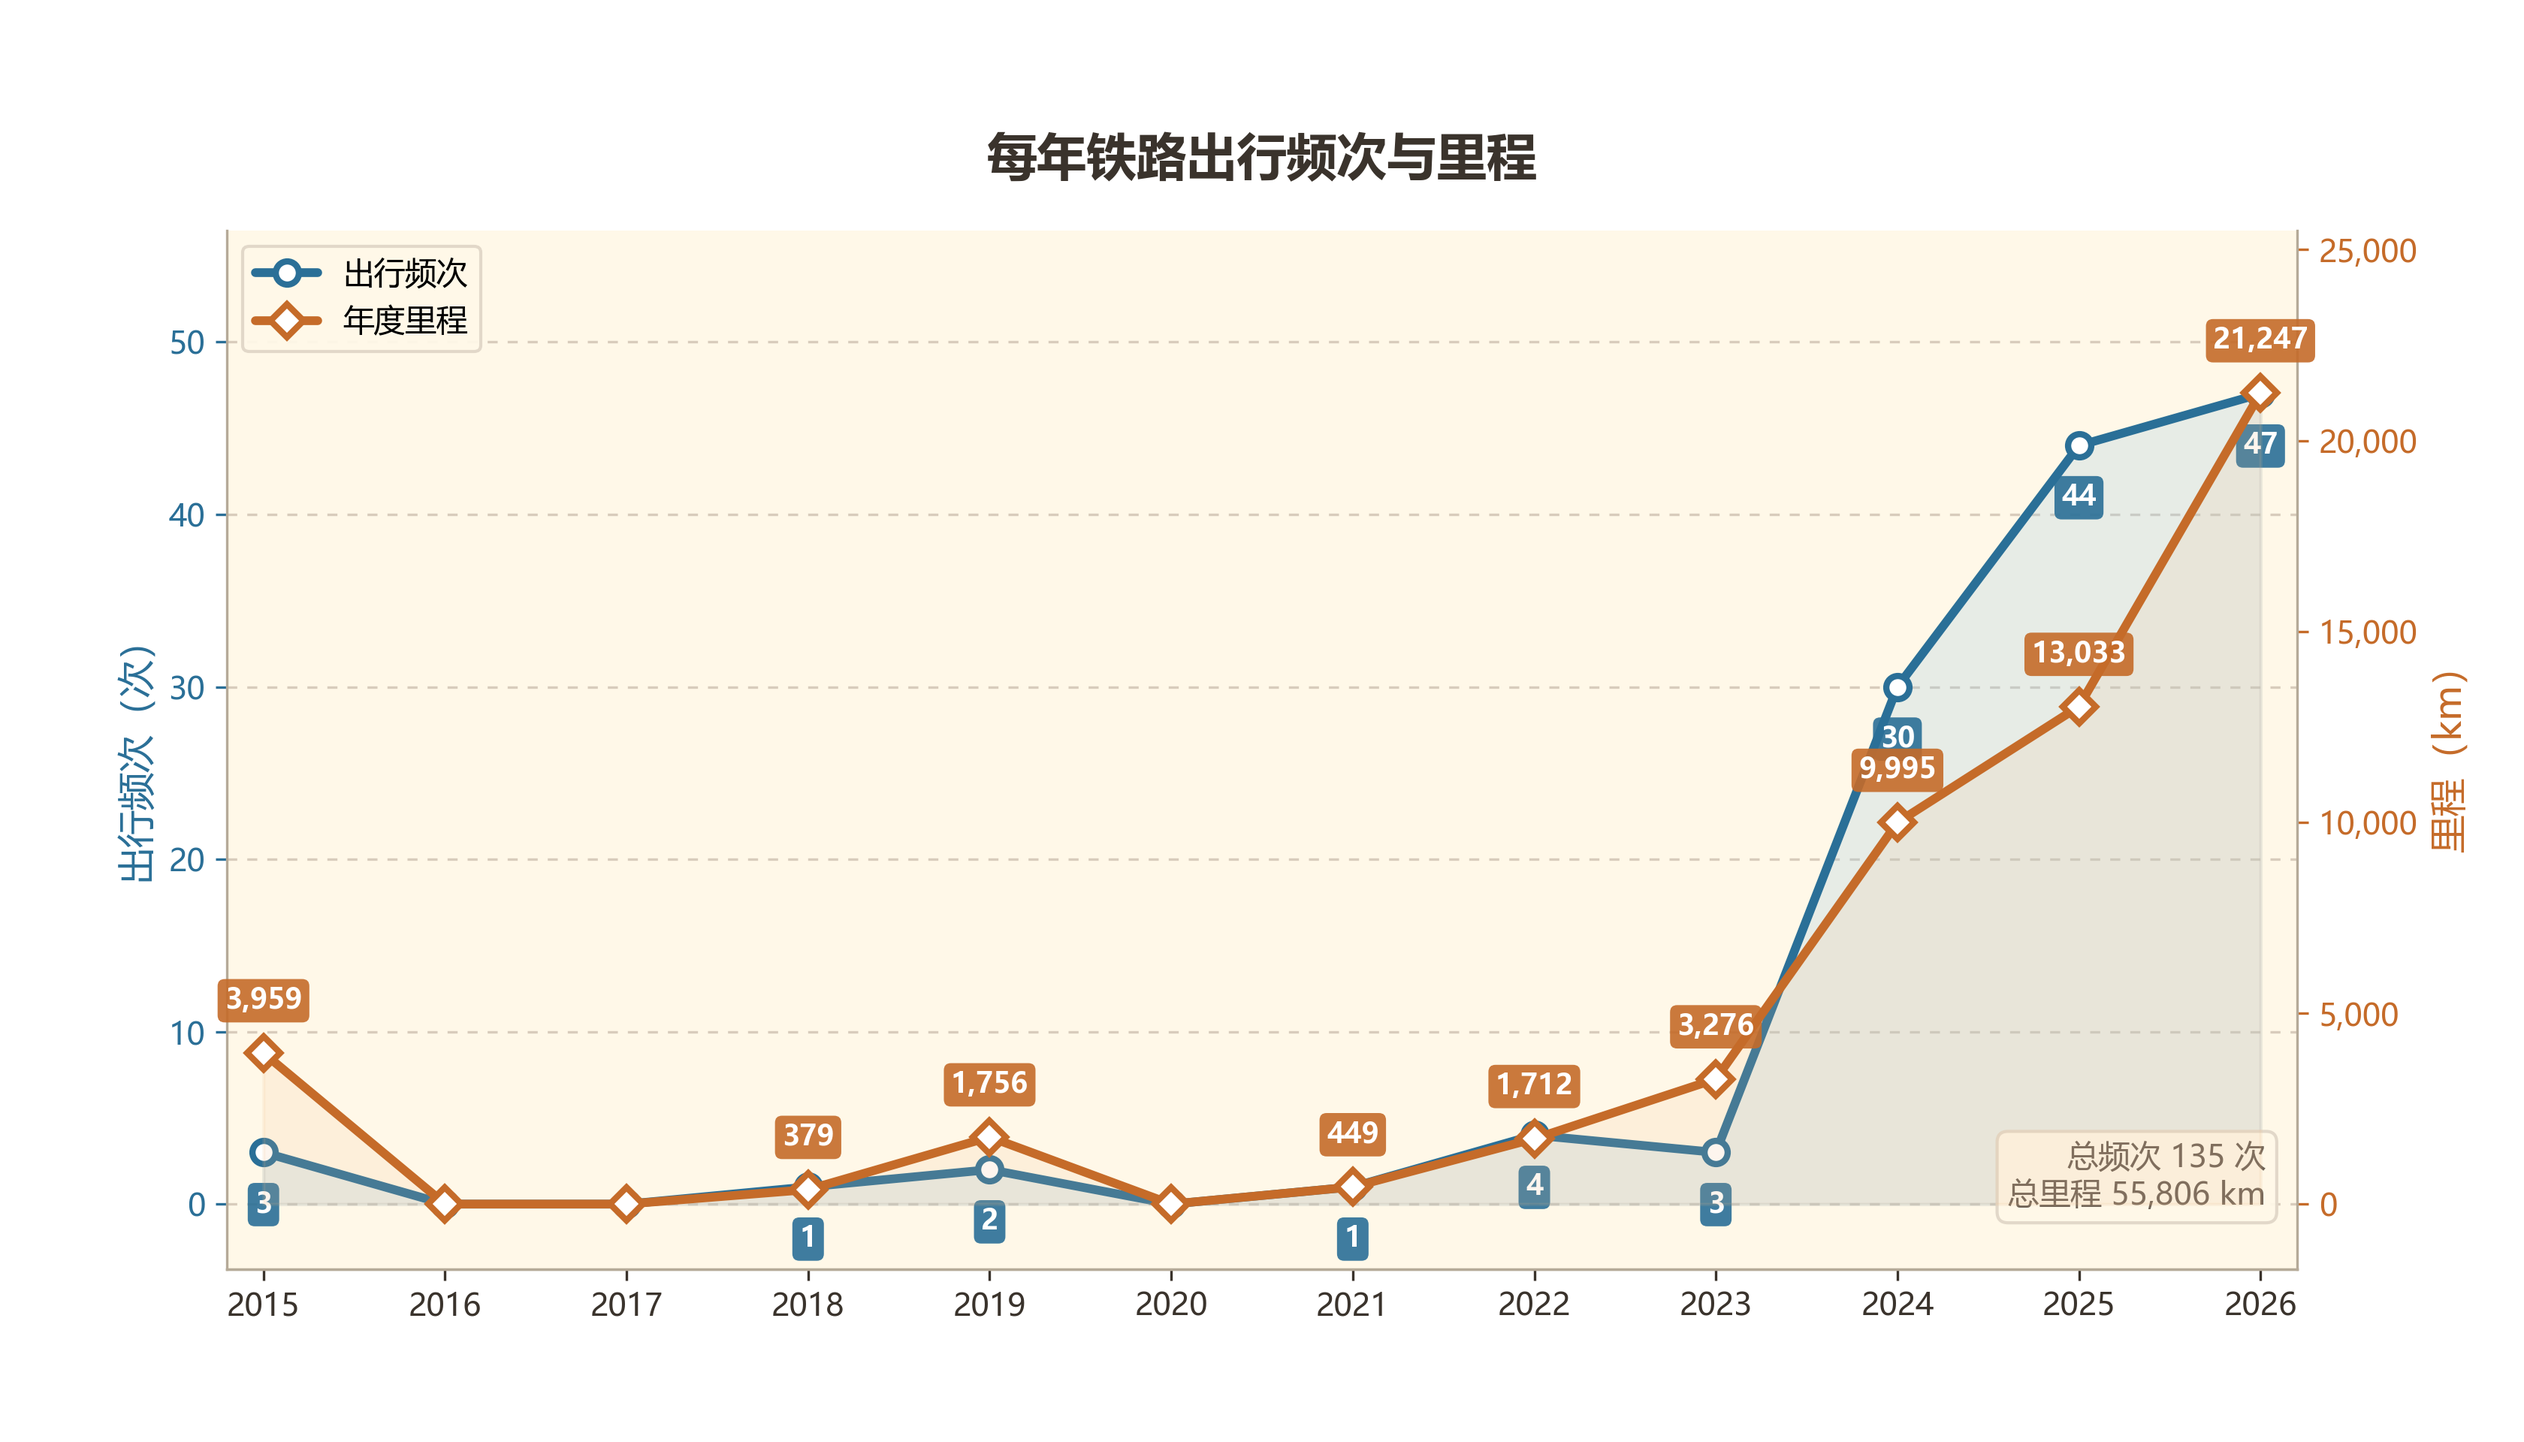
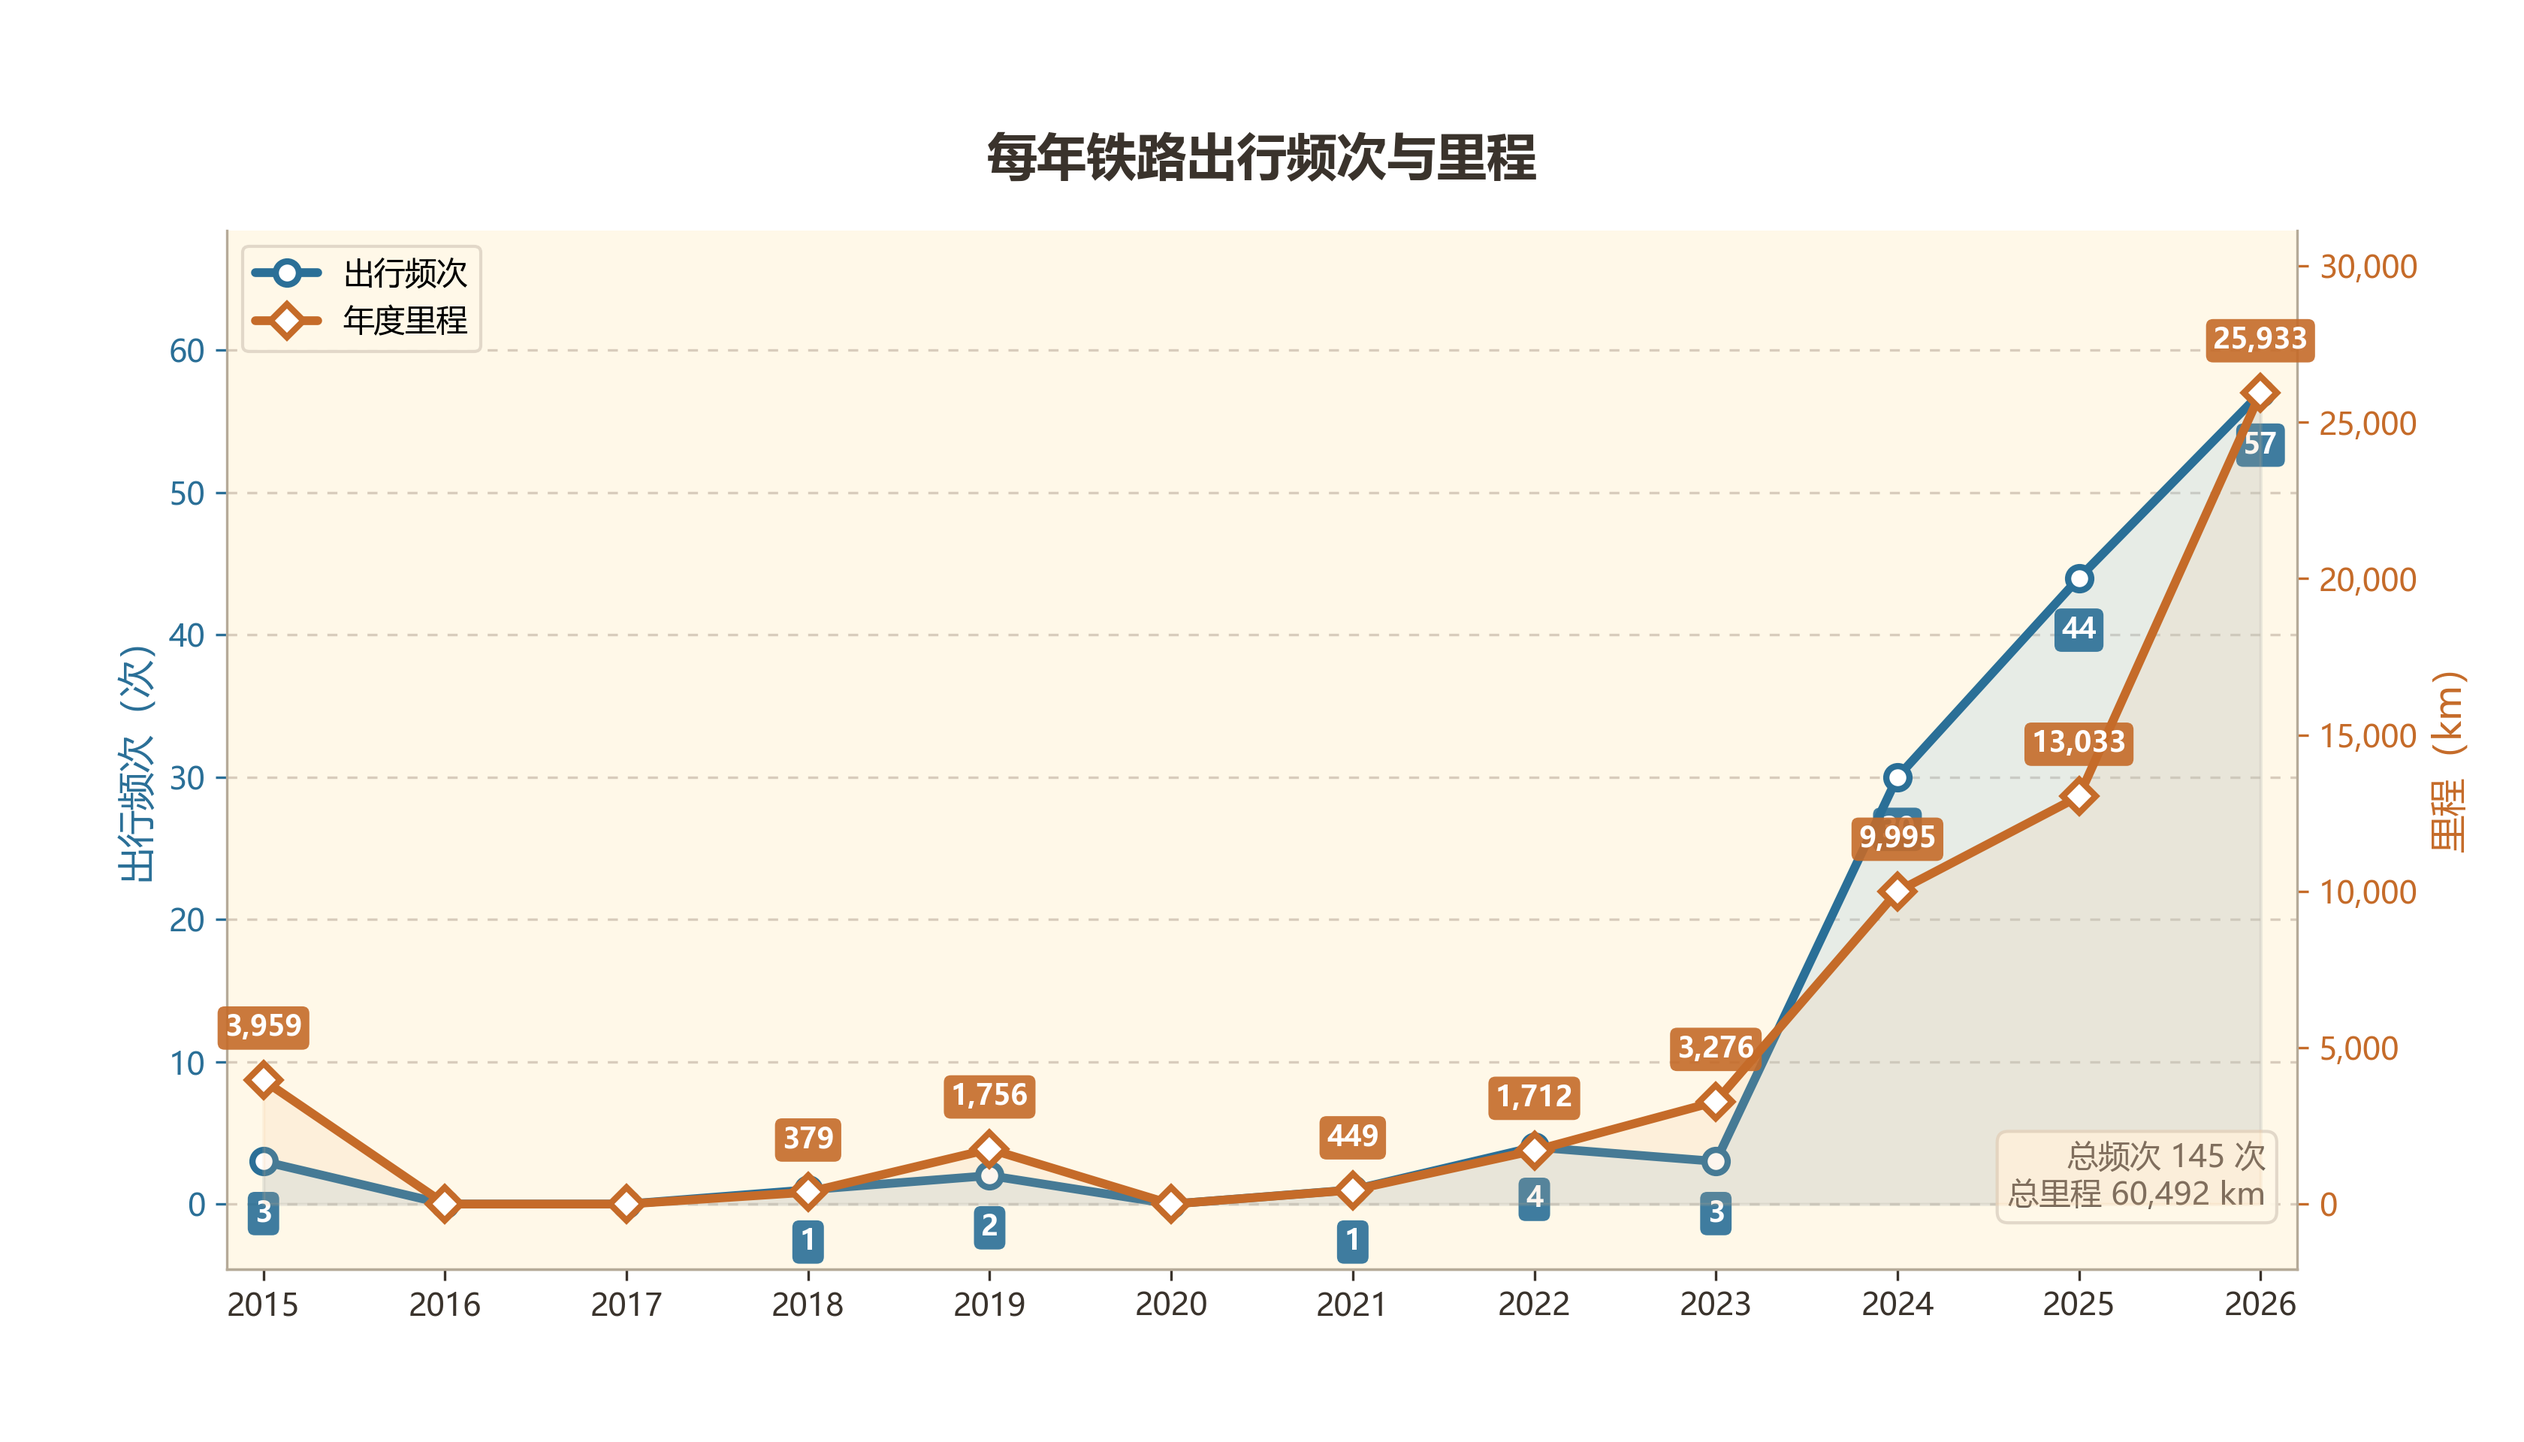
commit

diff --git a/draw.py b/draw.py
@@ -40,8 +40,8 @@ TOP_MARGIN = 0.84
 
 CITY_DATA = {
     "years": ["大学前", "2022-2023", "2024", "2025", "2026"],
-    "new_cities": [19, 2, 21, 21, 25],
-    "cumulative_cities": [19, 21, 42, 63, 88],
+    "new_cities": [19, 2, 21, 21, 32],
+    "cumulative_cities": [19, 21, 42, 63, 95],
 }
 
 

diff --git a/source/_posts/行旅杂记.md b/source/_posts/行旅杂记.md
@@ -145,7 +145,7 @@ date: 2024-11-15 00:00:00
 
 各篇游记的简要行程安排已整理到了[《行程轨迹汇总》](../dbd5/)。
 
-至此，共计去过23个省级行政区，94个城市[^20]：
+至此，共计去过23个省级行政区，95个城市[^20]：
 - 省
   - 广东（15/21）：湛江、广州、茂名、东莞、阳江、河源、惠州、江门、佛山、中山、珠海、韶关、揭阳、潮州、深圳
   - 贵州（5/9）：贵阳、黔南、黔东南、安顺、铜仁
@@ -164,7 +164,7 @@ date: 2024-11-15 00:00:00
   - 辽宁（1/14）：葫芦岛
   - 甘肃（8/14）：嘉峪关、酒泉、天水、定西、兰州、临夏、武威、张掖
   - 吉林（1/9）：白城
-  - 哈尔滨（1/13）：大兴安岭
+  - 黑龙江（2/13）：大兴安岭、哈尔滨
 - 直辖市
   - 北京、上海、天津
 - 自治区
@@ -174,11 +174,11 @@ date: 2024-11-15 00:00:00
 <figure style="text-align: center;"> <img src="https://s3.bmp.ovh/2026/09/04/hWvhMU8o.png" alt="旅行足迹" style="display: block; margin-left: auto; margin-right: auto;width: 100%;"></figure>
 
 <div style="text-align: center; font-size: 0;">
-  <img src="https://s3.bmp.ovh/2026/09/03/Qx1ssbcN.png" alt="新到的城市数量" style="width: 49%; display: inline-block;"><img src="https://s3.bmp.ovh/2026/09/03/hWJ7S56o.png" alt="累计去过的城市数量" style="width: 49%; display: inline-block;">
+  <img src="https://s3.bmp.ovh/2026/10/06/Ui0J2VJp.png" alt="新到的城市数量" style="width: 49%; display: inline-block;"><img src="https://s3.bmp.ovh/2026/10/06/RS84HK90.png" alt="累计去过的城市数量" style="width: 49%; display: inline-block;">
 </div>
 
 <div style="text-align: center; font-size: 0;">
-  <img src="https://s3.bmp.ovh/2026/09/03/woXnAlG7.png" alt="铁路出行里程与频次" style="width: 49%; display: inline-block;"><img src="https://s3.bmp.ovh/2026/09/03/Az7Zsh6d.png" alt="飞行里程与频次" style="width: 49%; display: inline-block;">
+  <img src="https://s3.bmp.ovh/2026/10/06/NDuYSSoA.png" alt="铁路出行里程与频次" style="width: 49%; display: inline-block;"><img src="https://s3.bmp.ovh/2026/09/03/Az7Zsh6d.png" alt="飞行里程与频次" style="width: 49%; display: inline-block;">
 </div>
 
 <figure style="text-align: center;"> <img src="https://s3.bmp.ovh/2026/09/04/V4kuEo4T.png" alt="铁路路线" style="display: block; margin-left: auto; margin-right: auto;width: 100%;"></figure>
@@ -330,6 +330,8 @@ date: 2024-11-15 00:00:00
 ||乌兰浩特|白城|C508|87|
 ||白城|海拉尔|K4259|626|
 ||海拉尔|满归|4184|506|
+||漠河|哈尔滨东|K7040|1129|
+||哈尔滨西|北京朝阳|G102|1158|
 {% endhideToggle %}
 
 {% hideToggle 展开车站列表 %}
@@ -338,7 +340,7 @@ date: 2024-11-15 00:00:00
 |:-:|:-:|
 |湛江|湛江、湛江西、湛江北|
 |桂林|桂林北|
-|北京|北京西、北京南、北京丰台、清河、古北口、北京、大兴机场、北京北、八达岭长城|
+|北京|北京西、北京南、北京丰台、清河、古北口、北京、大兴机场、北京北、八达岭长城、北京朝阳|
 |贵阳|贵阳|
 |广州|广州南、广州白云、广州东、广州|
 |合肥|合肥南、合肥、合肥北城、合肥西|
@@ -409,6 +411,8 @@ date: 2024-11-15 00:00:00
 |兴安盟|乌兰浩特|
 |白城|白城|
 |呼伦贝尔|海拉尔、满归|
+|大兴安岭地区|漠河|
+|哈尔滨|哈尔滨东、哈尔滨西|
 
 {% endhideToggle %}
 

diff --git a/文章统计.md b/文章统计.md
@@ -1,12 +1,12 @@
 # 文章字数统计（游记 + 指定文章）
 
-统计时间： 2026-10-05 22:48:18
+统计时间： 2026-10-06 11:43:39
 
 ## 总体统计
 
 - 文章总数： 36 篇
-- 总字数： 160.7k
-- 平均字数： 4462 字/篇
+- 总字数： 160.8k
+- 平均字数： 4465 字/篇
 
 ## 按发表年份统计
 
@@ -14,7 +14,7 @@
 |------|------|--------|----------|
 | 2020 | 1 | 6100 | 6100 |
 | 2023 | 1 | 13000 | 13000 |
-| 2024 | 11 | 37560 | 3414 |
+| 2024 | 11 | 37660 | 3423 |
 | 2025 | 13 | 62300 | 4792 |
 | 2026 | 10 | 41700 | 4170 |
 
@@ -35,7 +35,7 @@
 | 11 | [“人生短短几个秋啊，不醉不罢休”：在洛阳、郑州的中秋](https://kangaroogao.com/posts/4186/) | 4k | 2024-09-19 | 2026-08-04 |
 | 12 | [潮汕初探](https://kangaroogao.com/posts/52b1/) | 1.2k | 2024-09-20 | 2026-07-12 |
 | 13 | [今古一相接，长歌怀旧游：国庆出游杂记](https://kangaroogao.com/posts/786/) | 4.7k | 2024-10-07 | 2026-07-12 |
-| 14 | [行旅杂记](https://kangaroogao.com/posts/9e84/) | 7.5k | 2024-11-15 | 2026-10-04 |
+| 14 | [行旅杂记](https://kangaroogao.com/posts/9e84/) | 7.6k | 2024-11-15 | 2026-10-06 |
 | 15 | [清明游记：枣庄、徐州、淮北](https://kangaroogao.com/posts/b857/) | 6.3k | 2025-04-10 | 2026-08-25 |
 | 16 | [小城小记1：六安](https://kangaroogao.com/posts/83be/) | 1.5k | 2025-06-24 | 2026-07-27 |
 | 17 | [北京行迹](https://kangaroogao.com/posts/1502/) | 14.3k | 2025-08-01 | 2026-09-28 |
@@ -101,7 +101,7 @@
 | 28 | [雷州，雷州](https://kangaroogao.com/posts/4cde/) | 6.1k | 2020-08-22 | 2026-07-16 |
 | 29 | [清明游记：枣庄、徐州、淮北](https://kangaroogao.com/posts/b857/) | 6.3k | 2025-04-10 | 2026-08-25 |
 | 30 | [小城小记3：寿县、阜阳、周口、漯河、驻马店、信阳、孝感](https://kangaroogao.com/posts/e4f4/) | 7.4k | 2025-10-03 | 2026-09-03 |
-| 31 | [行旅杂记](https://kangaroogao.com/posts/9e84/) | 7.5k | 2024-11-15 | 2026-10-04 |
+| 31 | [行旅杂记](https://kangaroogao.com/posts/9e84/) | 7.6k | 2024-11-15 | 2026-10-06 |
 | 32 | [回家路上3：永州、柳州、来宾、贵港、玉林](https://kangaroogao.com/posts/526f/) | 8.2k | 2026-02-12 | 2026-08-25 |
 | 33 | [回家路上2：泾县、福州、龙岩、赣州](https://kangaroogao.com/posts/99aa/) | 10.5k | 2025-08-06 | 2026-09-23 |
 | 34 | [走河西](https://kangaroogao.com/posts/c866/) | 10.7k | 2026-07-20 | 2026-09-23 |

diff --git a/游记统计.md b/游记统计.md
@@ -1,18 +1,18 @@
 # 游记类别字数统计
 
-统计时间： 2026-10-05 22:48:11
+统计时间： 2026-10-06 11:43:28
 
 ## 总体统计
 
 - 文章总数： 32 篇
-- 总字数： 135.9k
-- 平均字数： 4245 字/篇
+- 总字数： 136.0k
+- 平均字数： 4248 字/篇
 
 ## 按发表年份统计
 
 | 年份 | 篇数 | 总字数 | 平均字数 |
 |------|------|--------|----------|
-| 2024 | 10 | 34260 | 3426 |
+| 2024 | 10 | 34360 | 3436 |
 | 2025 | 12 | 59900 | 4991 |
 | 2026 | 10 | 41700 | 4170 |
 
@@ -29,7 +29,7 @@
 | 7 | [“人生短短几个秋啊，不醉不罢休”：在洛阳、郑州的中秋](https://kangaroogao.com/posts/4186/) | 4k | 2024-09-19 | 2026-08-04 |
 | 8 | [潮汕初探](https://kangaroogao.com/posts/52b1/) | 1.2k | 2024-09-20 | 2026-07-12 |
 | 9 | [今古一相接，长歌怀旧游：国庆出游杂记](https://kangaroogao.com/posts/786/) | 4.7k | 2024-10-07 | 2026-07-12 |
-| 10 | [行旅杂记](https://kangaroogao.com/posts/9e84/) | 7.5k | 2024-11-15 | 2026-10-04 |
+| 10 | [行旅杂记](https://kangaroogao.com/posts/9e84/) | 7.6k | 2024-11-15 | 2026-10-06 |
 | 11 | [清明游记：枣庄、徐州、淮北](https://kangaroogao.com/posts/b857/) | 6.3k | 2025-04-10 | 2026-08-25 |
 | 12 | [小城小记1：六安](https://kangaroogao.com/posts/83be/) | 1.5k | 2025-06-24 | 2026-07-27 |
 | 13 | [北京行迹](https://kangaroogao.com/posts/1502/) | 14.3k | 2025-08-01 | 2026-09-28 |
@@ -92,7 +92,7 @@
 | 25 | [湛江碎影](https://kangaroogao.com/posts/a7ec/) | 6.1k | 2025-08-24 | 2026-08-23 |
 | 26 | [清明游记：枣庄、徐州、淮北](https://kangaroogao.com/posts/b857/) | 6.3k | 2025-04-10 | 2026-08-25 |
 | 27 | [小城小记3：寿县、阜阳、周口、漯河、驻马店、信阳、孝感](https://kangaroogao.com/posts/e4f4/) | 7.4k | 2025-10-03 | 2026-09-03 |
-| 28 | [行旅杂记](https://kangaroogao.com/posts/9e84/) | 7.5k | 2024-11-15 | 2026-10-04 |
+| 28 | [行旅杂记](https://kangaroogao.com/posts/9e84/) | 7.6k | 2024-11-15 | 2026-10-06 |
 | 29 | [回家路上3：永州、柳州、来宾、贵港、玉林](https://kangaroogao.com/posts/526f/) | 8.2k | 2026-02-12 | 2026-08-25 |
 | 30 | [回家路上2：泾县、福州、龙岩、赣州](https://kangaroogao.com/posts/99aa/) | 10.5k | 2025-08-06 | 2026-09-23 |
 | 31 | [走河西](https://kangaroogao.com/posts/c866/) | 10.7k | 2026-07-20 | 2026-09-23 |

diff --git a/source/journey/index.md b/source/journey/index.md
@@ -2,7 +2,7 @@
 title: Journey
 ---
 
-- [行旅杂记](../posts/9e84/)（7.5k）
+- [行旅杂记](../posts/9e84/)（7.6k）
 - [行程轨迹汇总](../posts/dbd5/)
 
 - 常驻城市

diff --git a/读书笔记统计.md b/读书笔记统计.md
@@ -1,6 +1,6 @@
 # 读书笔记类别字数统计
 
-统计时间： 2026-10-05 22:48:25
+统计时间： 2026-10-06 11:43:52
 
 ## 总体统计
 
